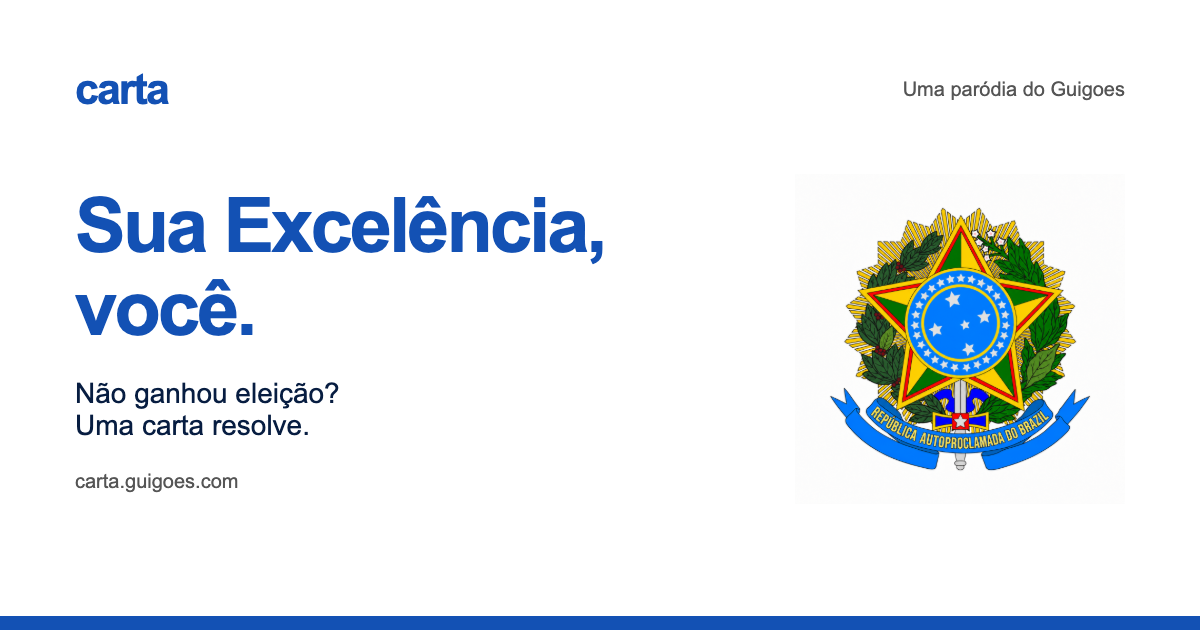
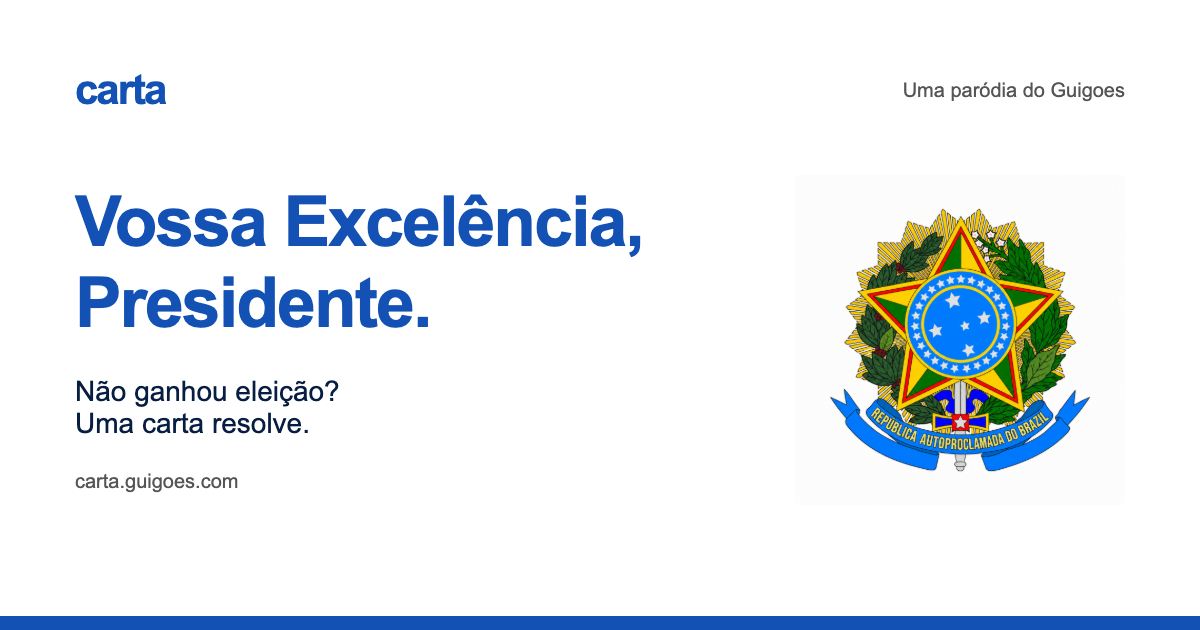
fix: address visitors as Vossa Excelência Presidente

diff --git a/content/index.md b/content/index.md
@@ -1,5 +1,5 @@
 ---
-title: Sua Excelência, você. Gere sua carta de autoproclamação.
+title: Vossa Excelência, Presidente. Gere sua carta de autoproclamação.
 description: Não ganhou eleição? Não disputou? Declare-se presidente do Brasil mesmo assim. Uma paródia para baixar em PDF e PNG.
 language: pt-BR
 ---
@@ -8,7 +8,7 @@ language: pt-BR
   <header class="masthead"><div class="portal-brand"><img id="national-emblem" src="./assets/brasao-parodia.png" alt="Brasão paródico da República Autoproclamada do Brazil" width="64" height="64"><a class="brand" href="/" aria-label="Carta, início">carta</a></div><a class="parody-label" href="https://guigoes.com">Uma paródia do Guigoes</a></header>
   <div class="workspace">
     <section class="editor" aria-labelledby="page-title">
-      <h1 id="page-title">Sua Excelência,<br>você.</h1>
+      <h1 id="page-title">Vossa Excelência,<br>Presidente.</h1>
       <p class="intro">Não ganhou eleição? Não disputou?<br>Uma carta resolve.</p>
       <form id="letter-form">
         <div class="field"><label for="president-name">Qual é seu nome?</label><input id="president-name" name="name" placeholder="Nome de quem vai assumir" maxlength="80" autocomplete="name" required aria-describedby="name-help"><p id="name-help" class="hint">É o único requisito para tomar posse aqui.</p></div>
